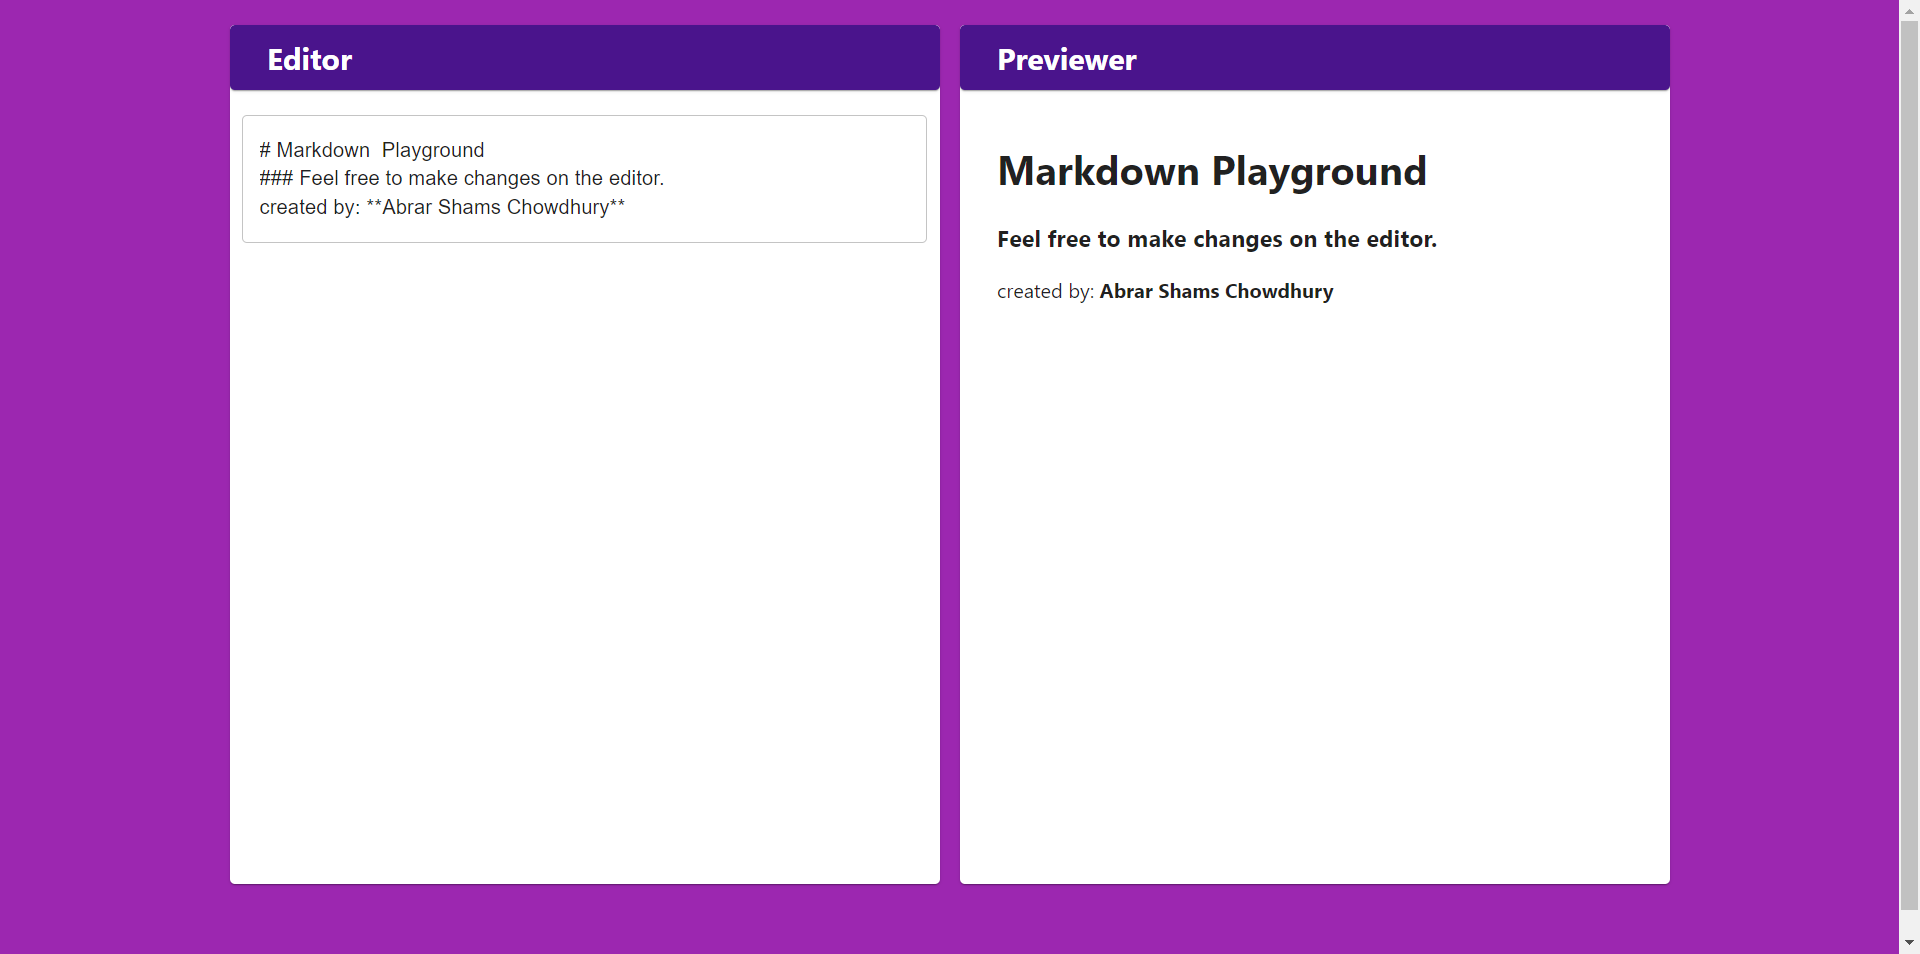
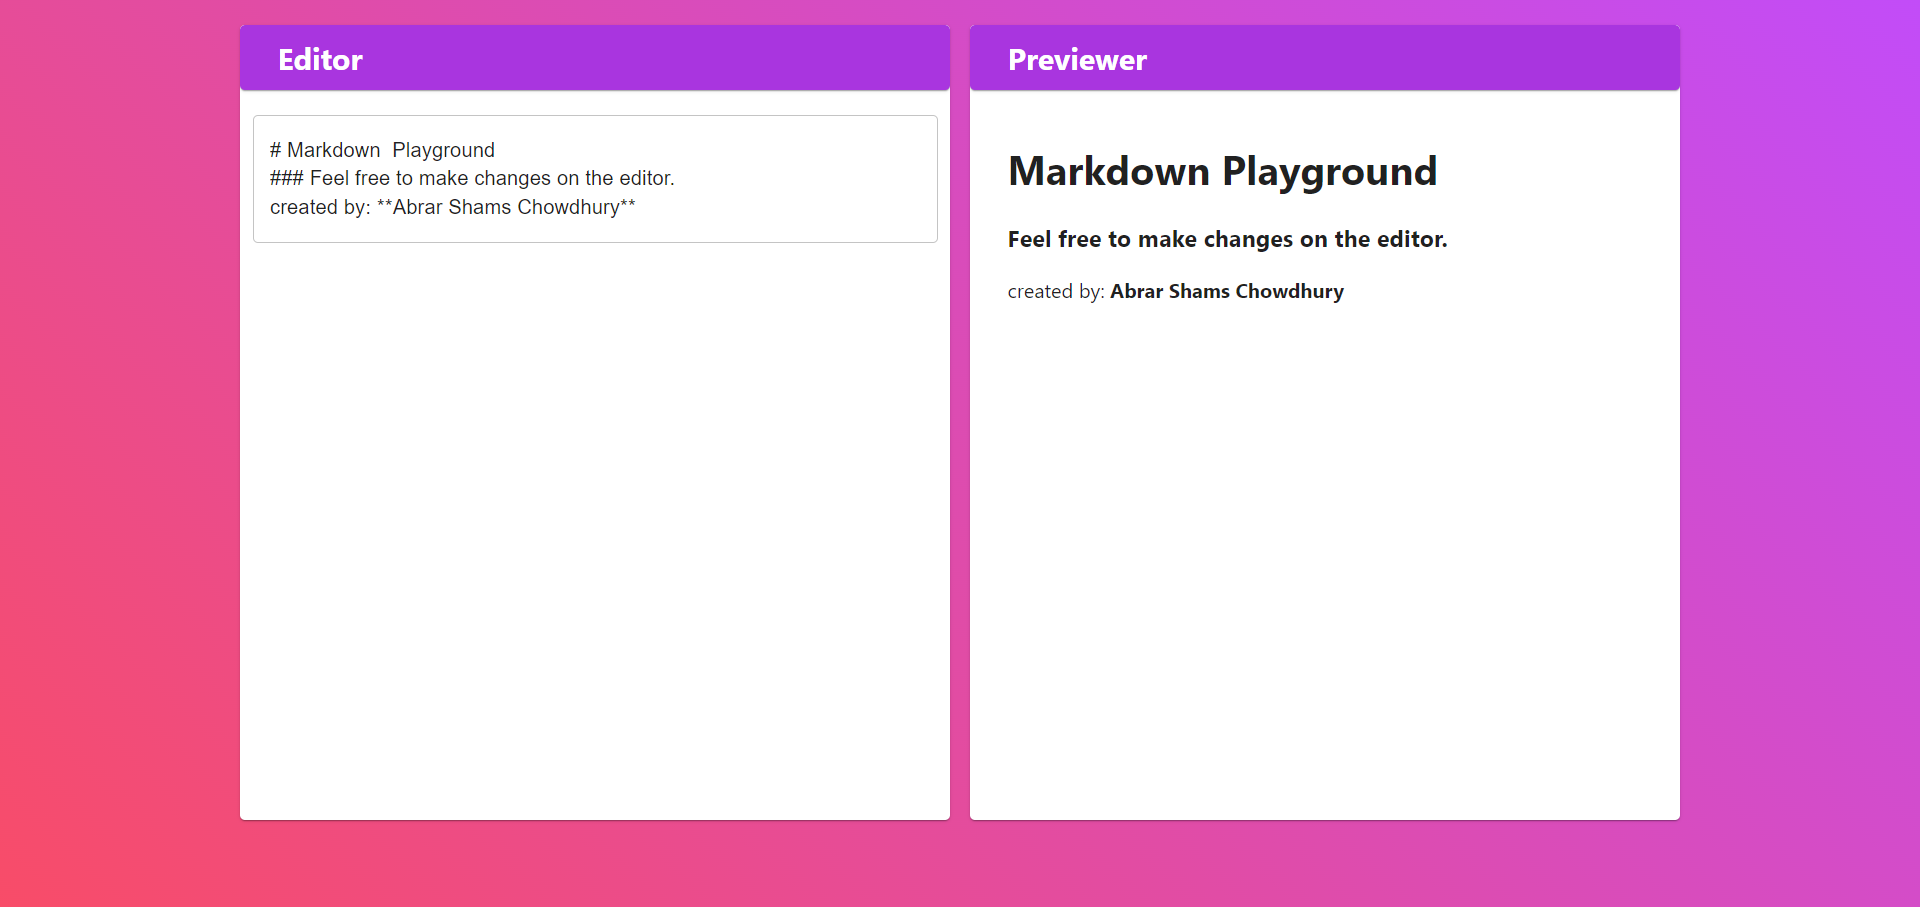
update background and change image

diff --git a/src/App.css b/src/App.css
@@ -1,5 +1,6 @@
 .App {
-  background-color: #9C27B0;
+  background: rgb(248,76,104);
+  background: linear-gradient(43deg, rgba(248,76,104,1) 0%, rgba(194,76,248,1) 100%, rgba(0,0,0,0) 100%);
   height: 100vh;
   padding-top: 20px;
 }
@@ -8,7 +9,7 @@
   padding: 10px;
 }
 .header{
-  background: #4A148C!important;
+  background: rgb(169, 53, 223)!important;
   color: white!important;
   padding-left: 20px;
   margin-top: 0;
